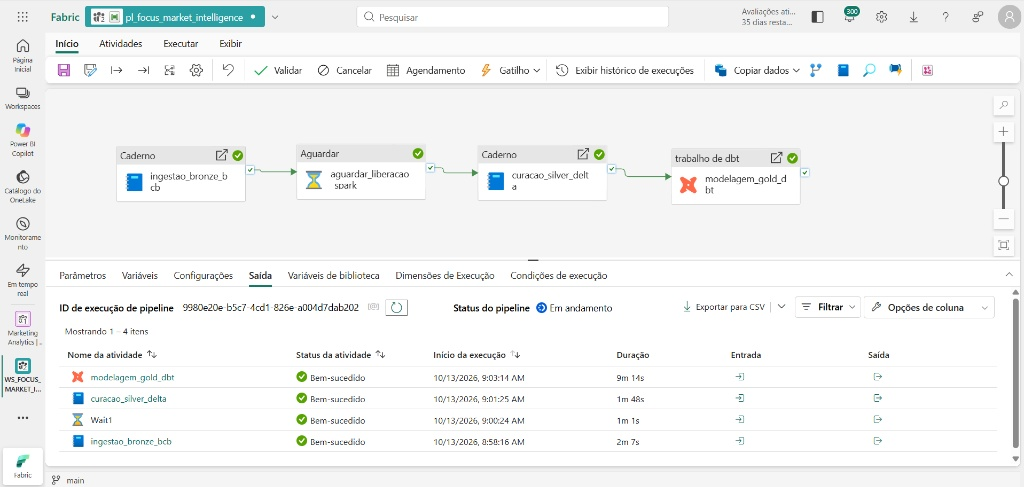
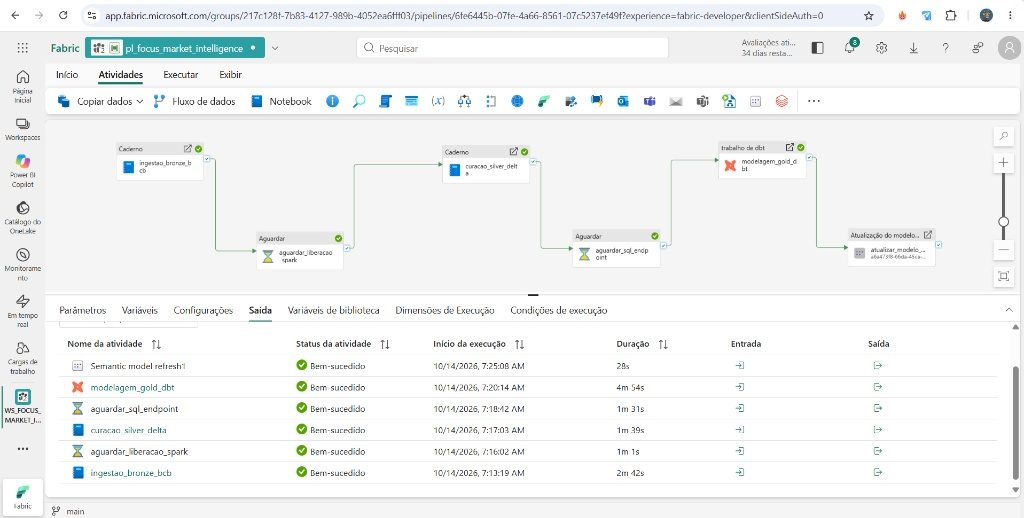
docs: update architecture diagrams and pipeline execution evidence for 6-stage fabric workflow
- Update Mermaid end-to-end architecture diagrams with SQL endpoint buffer and Direct Lake semantic model refresh activities

- Update Diataxis documentation (tutorials, architecture explanation, and data dictionary) in both Portuguese and English

- Replace pipeline execution screenshots with verified successful 6-activity run in Microsoft Fabric

diff --git a/docs/pt-br/explicacao/arquitetura-fabric.md b/docs/pt-br/explicacao/arquitetura-fabric.md
@@ -43,9 +43,18 @@ flowchart LR
         G1 --> G2
     end
 
-    B2 --> W["aguardar_liberacao_spark<br/>Espera 60s (Buffer Spark)"]
-    W --> S1
-    S2 --> G1
+    subgraph Consumo ["4. Camada Semântica & BI"]
+        direction TB
+        R1["Semantic Model Refresh<br/>Invalidação Direct Lake"]
+        R2["Power BI Report (PBIP)<br/>sm_focus_market_intelligence"]
+        R1 --> R2
+    end
+
+    B2 --> W1["aguardar_liberacao_spark<br/>Espera 60s (Buffer Spark)"]
+    W1 --> S1
+    S2 --> W2["aguardar_sql_endpoint<br/>Espera 90s (Buffer SQL Endpoint)"]
+    W2 --> G1
+    G2 --> R1
 ```
 
 ### 1. Camada Bronze (Raw)
@@ -93,9 +102,22 @@ Abaixo está a exibição real de linhagem operacional dos artefatos dentro do w
 
 ![Exibição de Linhagem do Workspace no Microsoft Fabric](../../assets/screenshots/05-linhagem-workspace-fabric.png)
 
-### Compreendendo a Topologia e o Direct Lake
+### Compreendendo a Topologia e as 6 Etapas do Pipeline
 
-Ao analisar a visualização de linhagem do Fabric, observam-se duas características arquiteturais importantes:
-1. **Orquestração pelo Pipeline:** O pipeline `pl_focus_market_intelligence` comanda a execução sequencial dos notebooks de ingestão (`nb_01_raw_to_bronze`), uma atividade de espera de 60 segundos (`aguardar_liberacao_spark`) para desalocação limpa de sessões Spark e prevenção de contenção de capacidade (HTTP 430), a curadoria Silver (`nb_02_bronze_to_silver`) e o trabalho de transformação dimensional Gold (`dbt_focus_intelligence`).
+Ao analisar a esteira completa e a orquestração do Fabric, observam-se três características arquiteturais centrais:
+
+1. **Orquestração pelo Pipeline (`pl_focus_market_intelligence`):** A pipeline comanda a execução sequencial de 6 atividades automatizadas:
+   * **`ingestao_bronze_bcb`**: Ingestão Spark das APIs do BCB no Lakehouse Bronze.
+   * **`aguardar_liberacao_spark`**: Espera de 60s para desalocação de nós Spark e prevenção de contenção de capacidade (HTTP 430).
+   * **`curacao_silver_delta`**: Curadoria e enriquecimento Spark no Lakehouse Silver Delta.
+   * **`aguardar_sql_endpoint`**: Espera de 90s para sincronização assíncrona dos metadados Delta no SQL Analytics Endpoint do Lakehouse antes da execução do dbt.
+   * **`modelagem_gold_dbt`**: Materialização dimensional Gold via dbt Core conectado ao Warehouse por T-SQL.
+   * **`refresh_modelo_semantico`**: Invalidação nativa de cache Direct Lake e refresh do modelo semântico (`sm_focus_market_intelligence`).
 2. **Materialização T-SQL do dbt:** O dbt se conecta ao Data Warehouse (`wh_focus_intelligence`) via T-SQL para materializar as tabelas Gold. Como essa operação é realizada por conexão de banco de dados, o motor visual do Fabric não rastreia comandos SQL dinâmicos como dependências declarativas de interface.
-3. **Consumo Direto com Direct Lake:** O modelo semântico `sm_focus_market_intelligence` consome as tabelas Delta do Warehouse diretamente em Direct Lake. Por esse motivo, não é necessária uma atividade tradicional de atualização (*Dataset Refresh*) ao final do pipeline, garantindo disponibilidade analítica imediata.
+3. **Invalidação e Atualização no Direct Lake:** Embora o Direct Lake leia arquivos Delta/Parquet sem importação tradicional, os metadados em memória do modelo semântico retêm ponteiros para snapshots anteriores. A atividade final de atualização do modelo semântico (*Semantic Model Refresh*) invalida o cache instantaneamente (~28s), garantindo que as páginas do relatório exibam as datas e valores mais recentes imediatamente após a conclusão da carga.
+
+### Execução Operacional do Pipeline de Dados
+
+Abaixo, a evidência de execução bem-sucedida das 6 atividades sequenciais orquestradas no Microsoft Fabric:
+
+![Execução Bem-Sucedida da Pipeline no Microsoft Fabric](../../assets/screenshots/06-execucao-pipeline-fabric.png)

diff --git a/docs/en/explanation/architecture.md b/docs/en/explanation/architecture.md
@@ -43,9 +43,18 @@ flowchart LR
         G1 --> G2
     end
 
-    B2 --> W["aguardar_liberacao_spark<br/>Wait 60s (Spark Buffer)"]
-    W --> S1
-    S2 --> G1
+    subgraph Consumption ["4. Semantic & BI Layer"]
+        direction TB
+        R1["Semantic Model Refresh<br/>Direct Lake Invalidation"]
+        R2["Power BI Report (PBIP)<br/>sm_focus_market_intelligence"]
+        R1 --> R2
+    end
+
+    B2 --> W1["aguardar_liberacao_spark<br/>Wait 60s (Spark Buffer)"]
+    W1 --> S1
+    S2 --> W2["aguardar_sql_endpoint<br/>Wait 90s (SQL Endpoint Buffer)"]
+    W2 --> G1
+    G2 --> R1
 ```
 
 ### 1. Bronze Layer (Raw)
@@ -93,9 +102,22 @@ Below is the actual operational lineage graph of the artifacts within the Micros
 
 ![Operational Workspace Lineage in Microsoft Fabric](../../assets/screenshots/05-linhagem-workspace-fabric.png)
 
-### Understanding the Lineage Topology and Direct Lake
+### Understanding the Lineage Topology and the 6 Pipeline Stages
 
-Reviewing the Fabric lineage view highlights two essential architectural characteristics:
-1. **Pipeline Orchestration:** The `pl_focus_market_intelligence` pipeline orchestrates the sequential execution of ingestion (`nb_01_raw_to_bronze`), a 60-second stabilization wait activity (`aguardar_liberacao_spark`) for clean Spark session deallocation and capacity contention mitigation (HTTP 430), Silver curation (`nb_02_bronze_to_silver`), and Gold dimensional modeling (`dbt_focus_intelligence`).
+Reviewing the Fabric pipeline and lineage highlights three foundational architectural pillars:
+
+1. **Pipeline Orchestration (`pl_focus_market_intelligence`):** The pipeline commands 6 automated, sequential activities:
+   * **`ingestao_bronze_bcb`**: PySpark ingestion pulling Central Bank APIs into Bronze Delta tables.
+   * **`aguardar_liberacao_spark`**: 60-second stabilization buffer for clean Spark compute deallocation and HTTP 430 capacity throttling prevention.
+   * **`curacao_silver_delta`**: PySpark curation, typing, deduplication, and quality enforcement into Silver Delta.
+   * **`aguardar_sql_endpoint`**: 90-second wait buffer ensuring asynchronous Delta metadata indexing on the Lakehouse SQL Analytics Endpoint prior to dbt queries.
+   * **`modelagem_gold_dbt`**: Dimensional star schema compilation and assertions via dbt Core connected to Warehouse over T-SQL.
+   * **`refresh_modelo_semantico`**: Native semantic model refresh activity invalidating Direct Lake cache on `sm_focus_market_intelligence`.
 2. **dbt T-SQL Materialization:** dbt connects to the Data Warehouse (`wh_focus_intelligence`) via standard T-SQL database connections to materialize Gold tables. The Fabric visual lineage tracker does not introspect external dynamic SQL executions as declarative UI dependencies.
-3. **Direct Lake Consumption:** The semantic model `sm_focus_market_intelligence` reads Delta tables from the Warehouse natively in Direct Lake mode. Consequently, no legacy dataset refresh task is needed at the pipeline's end, ensuring immediate analytical availability.
+3. **Direct Lake Cache Invalidation:** While Direct Lake streams Delta/Parquet files directly without duplication, the in-memory tabular engine maintains pointers to earlier transaction snapshots. The final semantic model refresh activity invalidates this cache instantaneously (~28s), guaranteeing that all visual cards and charts immediately reflect the newest observations without requiring manual page reloads or polling.
+
+### Operational Pipeline Execution
+
+Below is the execution evidence of the 6 sequential activities passing successfully in Microsoft Fabric:
+
+![Successful Pipeline Execution in Microsoft Fabric](../../assets/screenshots/06-execucao-pipeline-fabric.png)

diff --git a/README.en.md b/README.en.md
@@ -15,20 +15,6 @@
 
 ---
 
-## Project Demonstration
-
-> Walkthrough recording demonstrating the end-to-end data pipeline in Microsoft Fabric and analytical exploration in Power BI:
-
-
-
-
-
-https://github.com/user-attachments/assets/417228c8-44f6-4240-89cb-3866df95593a
-
-
-
----
-
 ## Project Overview
 
 **Focus Market Intelligence** is a practical Analytics Engineering project built to collect, structure, and model public data from Central Bank of Brazil APIs, turning macroeconomic forecasts (IPCA, Selic, GDP, and Exchange Rate) into accessible visual analytics and serving as an end-to-end reference implementation with Microsoft Fabric, dbt, and Power BI.
@@ -52,9 +38,10 @@ flowchart LR
     subgraph FabricLakehouse ["2. Lakehouse Medallion"]
         C[nb_01_raw_to_bronze]
         D[(Bronze Delta Lake)]
-        W["aguardar_liberacao_spark<br/>(60s Spark Buffer)"]
+        W1["aguardar_liberacao_spark<br/>(60s Spark Buffer)"]
         E[nb_02_bronze_to_silver]
         F[(Silver Delta Lake)]
+        W2["aguardar_sql_endpoint<br/>(90s SQL Buffer)"]
     end
 
     subgraph FabricWarehouse ["3. Warehouse and dbt"]
@@ -63,6 +50,7 @@ flowchart LR
     end
 
     subgraph Consumption ["4. Analytics and BI"]
+        R["refresh_modelo_semantico<br/>(Direct Lake Refresh)"]
         I[Direct Lake Semantic Model]
         J[Power BI 3-Page Report]
     end
@@ -70,14 +58,29 @@ flowchart LR
     A --> C
     B --> C
     C --> D
-    D --> W
-    W --> E
+    D --> W1
+    W1 --> E
     E --> F
-    F --> G
+    F --> W2
+    W2 --> G
     G --> H
-    H --> I
+    H --> R
+    R --> I
     I --> J
 ```
+
+### Automated Orchestration via Microsoft Fabric Data Pipeline
+
+The entire analytics engineering lifecycle is governed by the `pl_focus_market_intelligence` data pipeline across 6 automated stages:
+
+1. **`ingestao_bronze_bcb`**: PySpark Notebook pulling raw Central Bank Olinda and SGS APIs into Delta.
+2. **`aguardar_liberacao_spark`**: 60-second stabilization wait to deallocate Spark compute nodes and prevent HTTP 430 capacity throttling.
+3. **`curacao_silver_delta`**: PySpark Notebook performing cleaning, type validation, and Delta deduplication.
+4. **`aguardar_sql_endpoint`**: 90-second wait buffer ensuring asynchronous Delta metadata indexing on the Lakehouse SQL Analytics Endpoint.
+5. **`modelagem_gold_dbt`**: dbt Core job executing `dbt build` against the Fabric Warehouse over T-SQL.
+6. **`refresh_modelo_semantico`**: Native semantic model refresh activity invalidating Direct Lake cache for immediate dashboard responsiveness.
+
+![Pipeline Execution in Microsoft Fabric](./docs/assets/screenshots/06-execucao-pipeline-fabric.png)
 
 ### Direct Lake Semantic Model (Star Schema)
 

diff --git a/README.md b/README.md
@@ -15,21 +15,6 @@
 
 ---
 
-## Demonstração do Projeto
-
-> Demonstração prática do ambiente Microsoft Fabric e da navegação no relatório analítico do Power BI:
-
-
-
-
-
-https://github.com/user-attachments/assets/858eec4a-a40c-4bdc-b7bf-0dc520fc25ea
-
-
-
----
-
-
 ## Visão Geral do Projeto
 
 O **Focus Market Intelligence** é um projeto prático de Engenharia de Analytics desenvolvido para coletar, estruturar e modelar dados públicos das APIs do Banco Central do Brasil, transformando projeções macroeconômicas (IPCA, Selic, PIB e Câmbio) em análises visuais acessíveis e servindo como referência de implementação de ponta a ponta com Microsoft Fabric, dbt e Power BI.
@@ -53,9 +38,10 @@ flowchart LR
     subgraph FabricLakehouse ["2. Lakehouse Medallion"]
         C[nb_01_raw_to_bronze]
         D[(Bronze Delta Lake)]
-        W["aguardar_liberacao_spark<br/>(Buffer 60s)"]
+        W1["aguardar_liberacao_spark<br/>(Buffer 60s)"]
         E[nb_02_bronze_to_silver]
         F[(Silver Delta Lake)]
+        W2["aguardar_sql_endpoint<br/>(Buffer 90s)"]
     end
 
     subgraph FabricWarehouse ["3. Warehouse e dbt"]
@@ -64,6 +50,7 @@ flowchart LR
     end
 
     subgraph Consumo ["4. Consumo e BI"]
+        R["refresh_modelo_semantico<br/>(Direct Lake Refresh)"]
         I[Modelo Semântico Direct Lake]
         J[Power BI Report 3 Páginas]
     end
@@ -71,14 +58,29 @@ flowchart LR
     A --> C
     B --> C
     C --> D
-    D --> W
-    W --> E
+    D --> W1
+    W1 --> E
     E --> F
-    F --> G
+    F --> W2
+    W2 --> G
     G --> H
-    H --> I
+    H --> R
+    R --> I
     I --> J
 ```
+
+### Orquestração Automatizada no Microsoft Fabric Data Pipeline
+
+A esteira completa de engenharia de dados é orquestrada pelo pipeline `pl_focus_market_intelligence`, contendo 6 atividades automatizadas de ponta a ponta:
+
+1. **`ingestao_bronze_bcb`**: Notebook PySpark que consome as APIs Olinda e SGS do Banco Central.
+2. **`aguardar_liberacao_spark`**: Espera de 60s para desalocação de nós Spark e prevenção de contenção de capacidade (HTTP 430).
+3. **`curacao_silver_delta`**: Notebook PySpark de limpeza, tipagem e deduplicação Delta.
+4. **`aguardar_sql_endpoint`**: Espera de 90s para indexação e sincronização de metadados no SQL Analytics Endpoint.
+5. **`modelagem_gold_dbt`**: Job do dbt Core executando `dbt build` no Warehouse via T-SQL.
+6. **`refresh_modelo_semantico`**: Atualização nativa do modelo semântico para invalidação do cache Direct Lake.
+
+![Execução do Pipeline no Microsoft Fabric](./docs/assets/screenshots/06-execucao-pipeline-fabric.png)
 
 ### Modelo Semântico Direct Lake (Star Schema)
 

diff --git a/docs/pt-br/tutoriais/primeiros-passos.md b/docs/pt-br/tutoriais/primeiros-passos.md
@@ -70,9 +70,11 @@ Para popular as tabelas e transformar os dados pela primeira vez:
 3. A pipeline executará as etapas na seguinte ordem automatizada:
    * **Atividade 1 (`ingestao_bronze_bcb`):** Executa o notebook `nb_01_raw_to_bronze` (consome a API Olinda do BCB e a série SGS 432 com janela de tolerância de 30 dias, gravando as tabelas brutas no Lakehouse Bronze).
    * **Atividade 2 (`aguardar_liberacao_spark`):** Atividade de espera (*Wait*) de 60 segundos. Atua como buffer de estabilização para desalocação de nós e liberação de capacidade de computação Spark no Microsoft Fabric, mitigando concorrência e saturação de capacidade (erro HTTP 430) em capacidades F/Trial.
-   * **Atividade 3 (`curacao_silver_delta`):** Executa o notebook `nb_02_bronze_to_silver` (padroniza tipagens, formata datas, aplica deduplicação e regras de negócio para o Lakehouse Silver).
-   * **Atividade 4 (`modelagem_gold_dbt`):** Dispara o job do dbt `dbt_focus_intelligence` (compila e materializa o esquema estrela dimensional no Data Warehouse via T-SQL e executa a suíte de testes de integridade).
-4. Aguarde até que todas as atividades apresentem status de êxito (*Succeeded*):
+   * **Atividade 3 (`curacao_silver_delta`):** Executa o notebook `nb_02_bronze_to_silver` (padroniza tipagens, formata datas, aplica deduplicação e regras de negócio para o Lakehouse Silver Delta).
+   * **Atividade 4 (`aguardar_sql_endpoint`):** Atividade de espera (*Wait*) de 90 segundos. Permite que as transações Delta recém-gravadas no OneLake sejam indexadas de forma assíncrona pelo SQL Analytics Endpoint antes do início das consultas pelo dbt.
+   * **Atividade 5 (`modelagem_gold_dbt`):** Dispara o job do dbt `dbt_focus_intelligence` (compila e materializa o esquema estrela dimensional no Data Warehouse via T-SQL e executa a suíte de testes de integridade).
+   * **Atividade 6 (`refresh_modelo_semantico` / `Semantic model refresh1`):** Dispara a atualização nativa do modelo semântico `sm_focus_market_intelligence`, invalidando o cache Direct Lake para disponibilizar os dados mais recentes imediatamente no relatório Power BI.
+4. Aguarde até que todas as 6 atividades apresentem status de êxito (*Succeeded*):
 
 ![Execução Bem-Sucedida da Pipeline no Microsoft Fabric](../../assets/screenshots/06-execucao-pipeline-fabric.png)
 

diff --git a/docs/en/tutorials/getting-started.md b/docs/en/tutorials/getting-started.md
@@ -70,8 +70,10 @@ To populate the tables and run end-to-end data transformations:
    * **Activity 1 (`ingestao_bronze_bcb`):** Runs `nb_01_raw_to_bronze` (ingests data from BCB Olinda API and SGS 432 series with a 30-day lookback window into Bronze Delta tables).
    * **Activity 2 (`aguardar_liberacao_spark`):** 60-second Wait activity acting as a stabilization buffer for Spark session deallocation and capacity release in Microsoft Fabric, preventing capacity contention (HTTP 430) on shared F-SKUs/Trial capacities.
    * **Activity 3 (`curacao_silver_delta`):** Runs `nb_02_bronze_to_silver` (cleans, types, deduplicates, and standardizes into Silver Delta tables).
-   * **Activity 4 (`modelagem_gold_dbt`):** Triggers `dbt_focus_intelligence` (compiles and materializes the Gold dimensional star schema inside the Warehouse via T-SQL and validates schema tests).
-4. Wait until all activities display a green **Succeeded** status:
+   * **Activity 4 (`aguardar_sql_endpoint`):** 90-second Wait activity allowing newly committed Delta Parquet files in OneLake to be asynchronously indexed by the Lakehouse SQL Analytics Endpoint before dbt executes.
+   * **Activity 5 (`modelagem_gold_dbt`):** Triggers `dbt_focus_intelligence` (compiles and materializes the Gold dimensional star schema inside the Warehouse via T-SQL and validates schema tests).
+   * **Activity 6 (`refresh_modelo_semantico` / `Semantic model refresh1`):** Triggers native semantic model refresh on `sm_focus_market_intelligence` to invalidate Direct Lake cache and display latest data on the report immediately.
+4. Wait until all 6 activities display a green **Succeeded** status:
 
 ![Successful Pipeline Execution in Microsoft Fabric](../../assets/screenshots/06-execucao-pipeline-fabric.png)
 

diff --git a/docs/pt-br/referencia/dicionario-de-dados.md b/docs/pt-br/referencia/dicionario-de-dados.md
@@ -29,6 +29,7 @@ flowchart TD
     end
 
     subgraph Consumo ["Consumo Analítico"]
+        REFRESH["refresh_modelo_semantico<br/>Invalidação Direct Lake (28s)"]
         SM["Modelo Semântico Direct Lake<br/>sm_focus_market_intelligence"]
         RPT["Relatório Power BI (PBIP)<br/>rpt_focus_market_intelligence"]
     end
@@ -36,12 +37,14 @@ flowchart TD
     API1 --> NB1
     API2 --> NB1
     NB1 --> BRONZE
-    BRONZE --> WAIT["aguardar_liberacao_spark<br/>Buffer de Estabilização Spark (60s)"]
-    WAIT --> NB2
+    BRONZE --> WAIT1["aguardar_liberacao_spark<br/>Buffer de Estabilização Spark (60s)"]
+    WAIT1 --> NB2
     NB2 --> SILVER
-    SILVER --> DBT
+    SILVER --> WAIT2["aguardar_sql_endpoint<br/>Buffer de Indexação SQL Endpoint (90s)"]
+    WAIT2 --> DBT
     DBT --> GOLD
-    GOLD -.->|Direct Lake| SM
+    GOLD --> REFRESH
+    REFRESH -.->|Direct Lake| SM
     SM --> RPT
 ```
 

diff --git a/docs/en/reference/data-dictionary.md b/docs/en/reference/data-dictionary.md
@@ -29,6 +29,7 @@ flowchart TD
     end
 
     subgraph Consumption ["Analytics & BI"]
+        REFRESH["refresh_modelo_semantico<br/>Direct Lake Refresh (28s)"]
         SM["Direct Lake Semantic Model<br/>sm_focus_market_intelligence"]
         RPT["Power BI Report (PBIP)<br/>rpt_focus_market_intelligence"]
     end
@@ -36,12 +37,14 @@ flowchart TD
     API1 --> NB1
     API2 --> NB1
     NB1 --> BRONZE
-    BRONZE --> WAIT["aguardar_liberacao_spark<br/>Spark Stabilization Buffer (60s)"]
-    WAIT --> NB2
+    BRONZE --> WAIT1["aguardar_liberacao_spark<br/>Spark Stabilization Buffer (60s)"]
+    WAIT1 --> NB2
     NB2 --> SILVER
-    SILVER --> DBT
+    SILVER --> WAIT2["aguardar_sql_endpoint<br/>SQL Endpoint Indexing Buffer (90s)"]
+    WAIT2 --> DBT
     DBT --> GOLD
-    GOLD -.->|Direct Lake| SM
+    GOLD --> REFRESH
+    REFRESH -.->|Direct Lake| SM
     SM --> RPT
 ```
 
